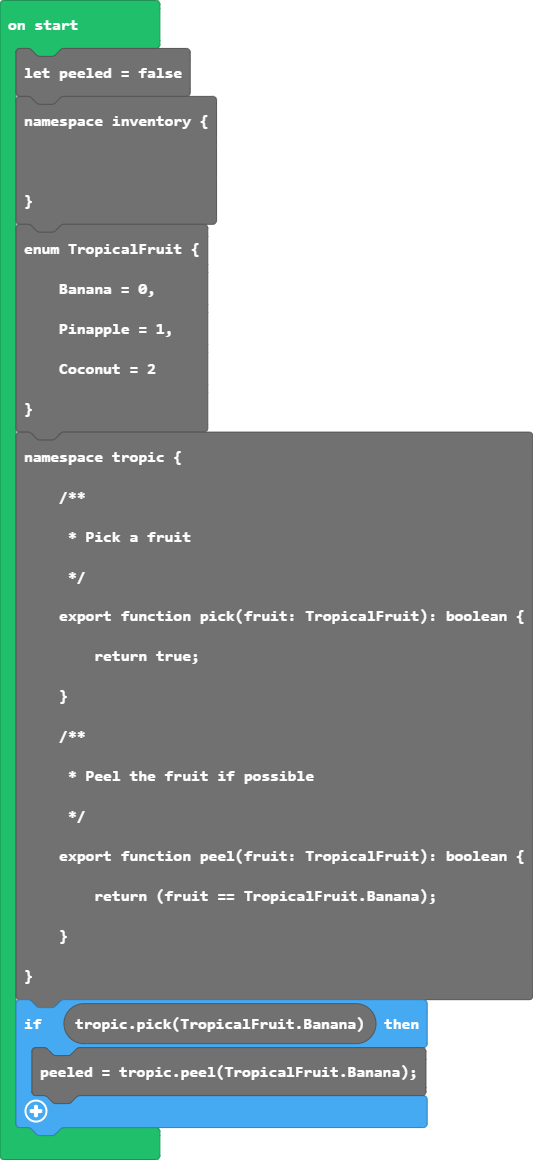
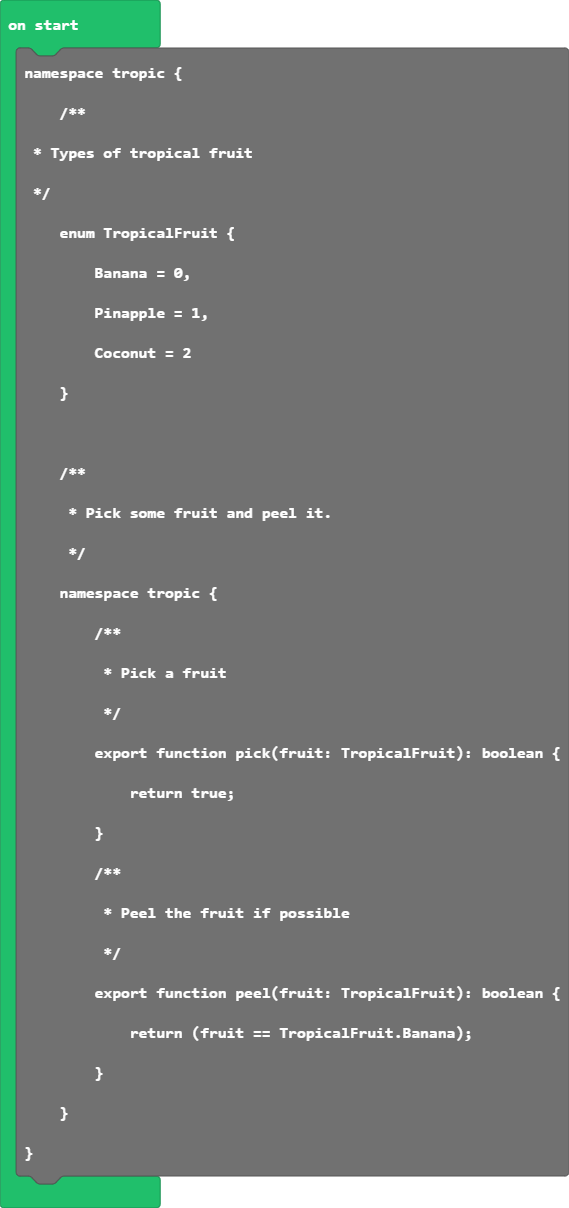
Update main.blocks, main.ts

diff --git a/main.ts b/main.ts
@@ -1,28 +1,26 @@
-namespace tropic {
-    /**
+/**
  * Types of tropical fruit
  */
-    enum TropicalFruit {
-        Banana = 0,
-        Pinapple = 1,
-        Coconut = 2
-    }
+enum TropicalFruit {
+    Banana = 0,
+    Pinapple = 1,
+    Coconut = 2
+}
 
+/**
+ * Pick some fruit and peel it.
+ */
+namespace tropic {
     /**
-     * Pick some fruit and peel it.
+     * Pick a fruit
      */
-    namespace tropic {
-        /**
-         * Pick a fruit
-         */
-        export function pick(fruit: TropicalFruit): boolean {
-            return true;
-        }
-        /**
-         * Peel the fruit if possible
-         */
-        export function peel(fruit: TropicalFruit): boolean {
-            return (fruit == TropicalFruit.Banana);
-        }
+    export function pick(fruit: TropicalFruit): boolean {
+        return true;
+    }
+    /**
+     * Peel the fruit if possible
+     */
+    export function peel(fruit: TropicalFruit): boolean {
+        return (fruit == TropicalFruit.Banana);
     }
 }
